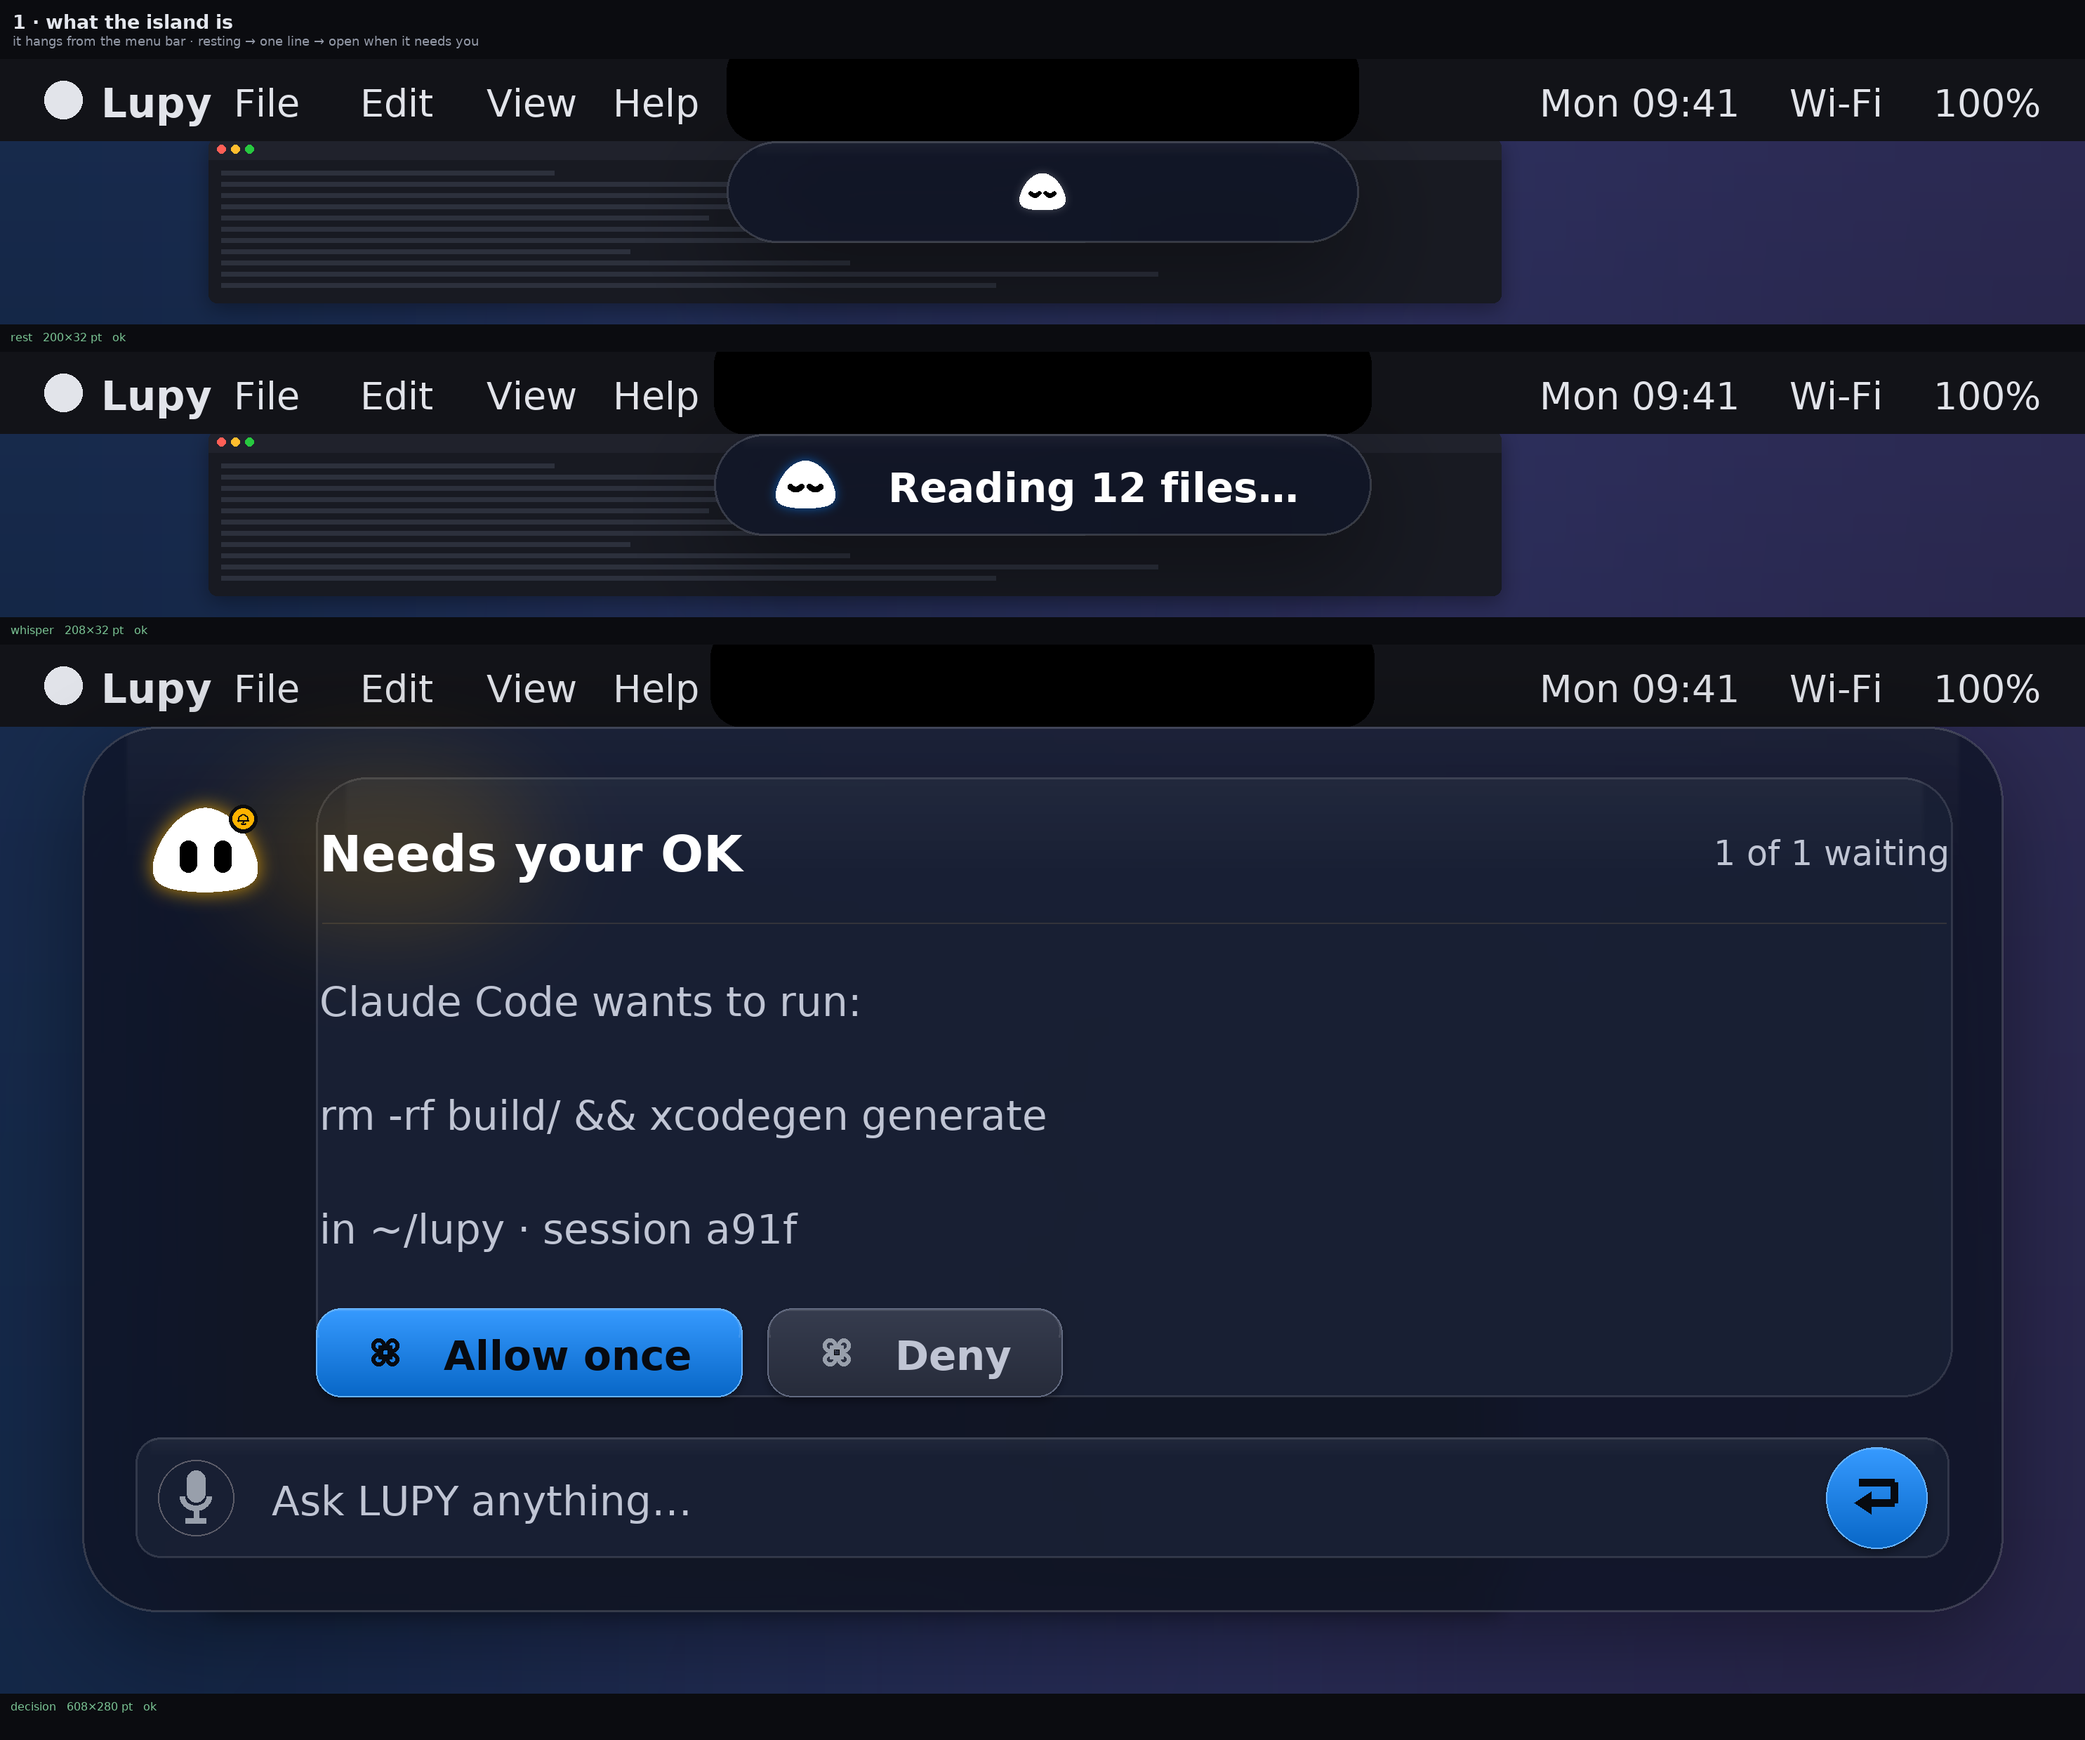
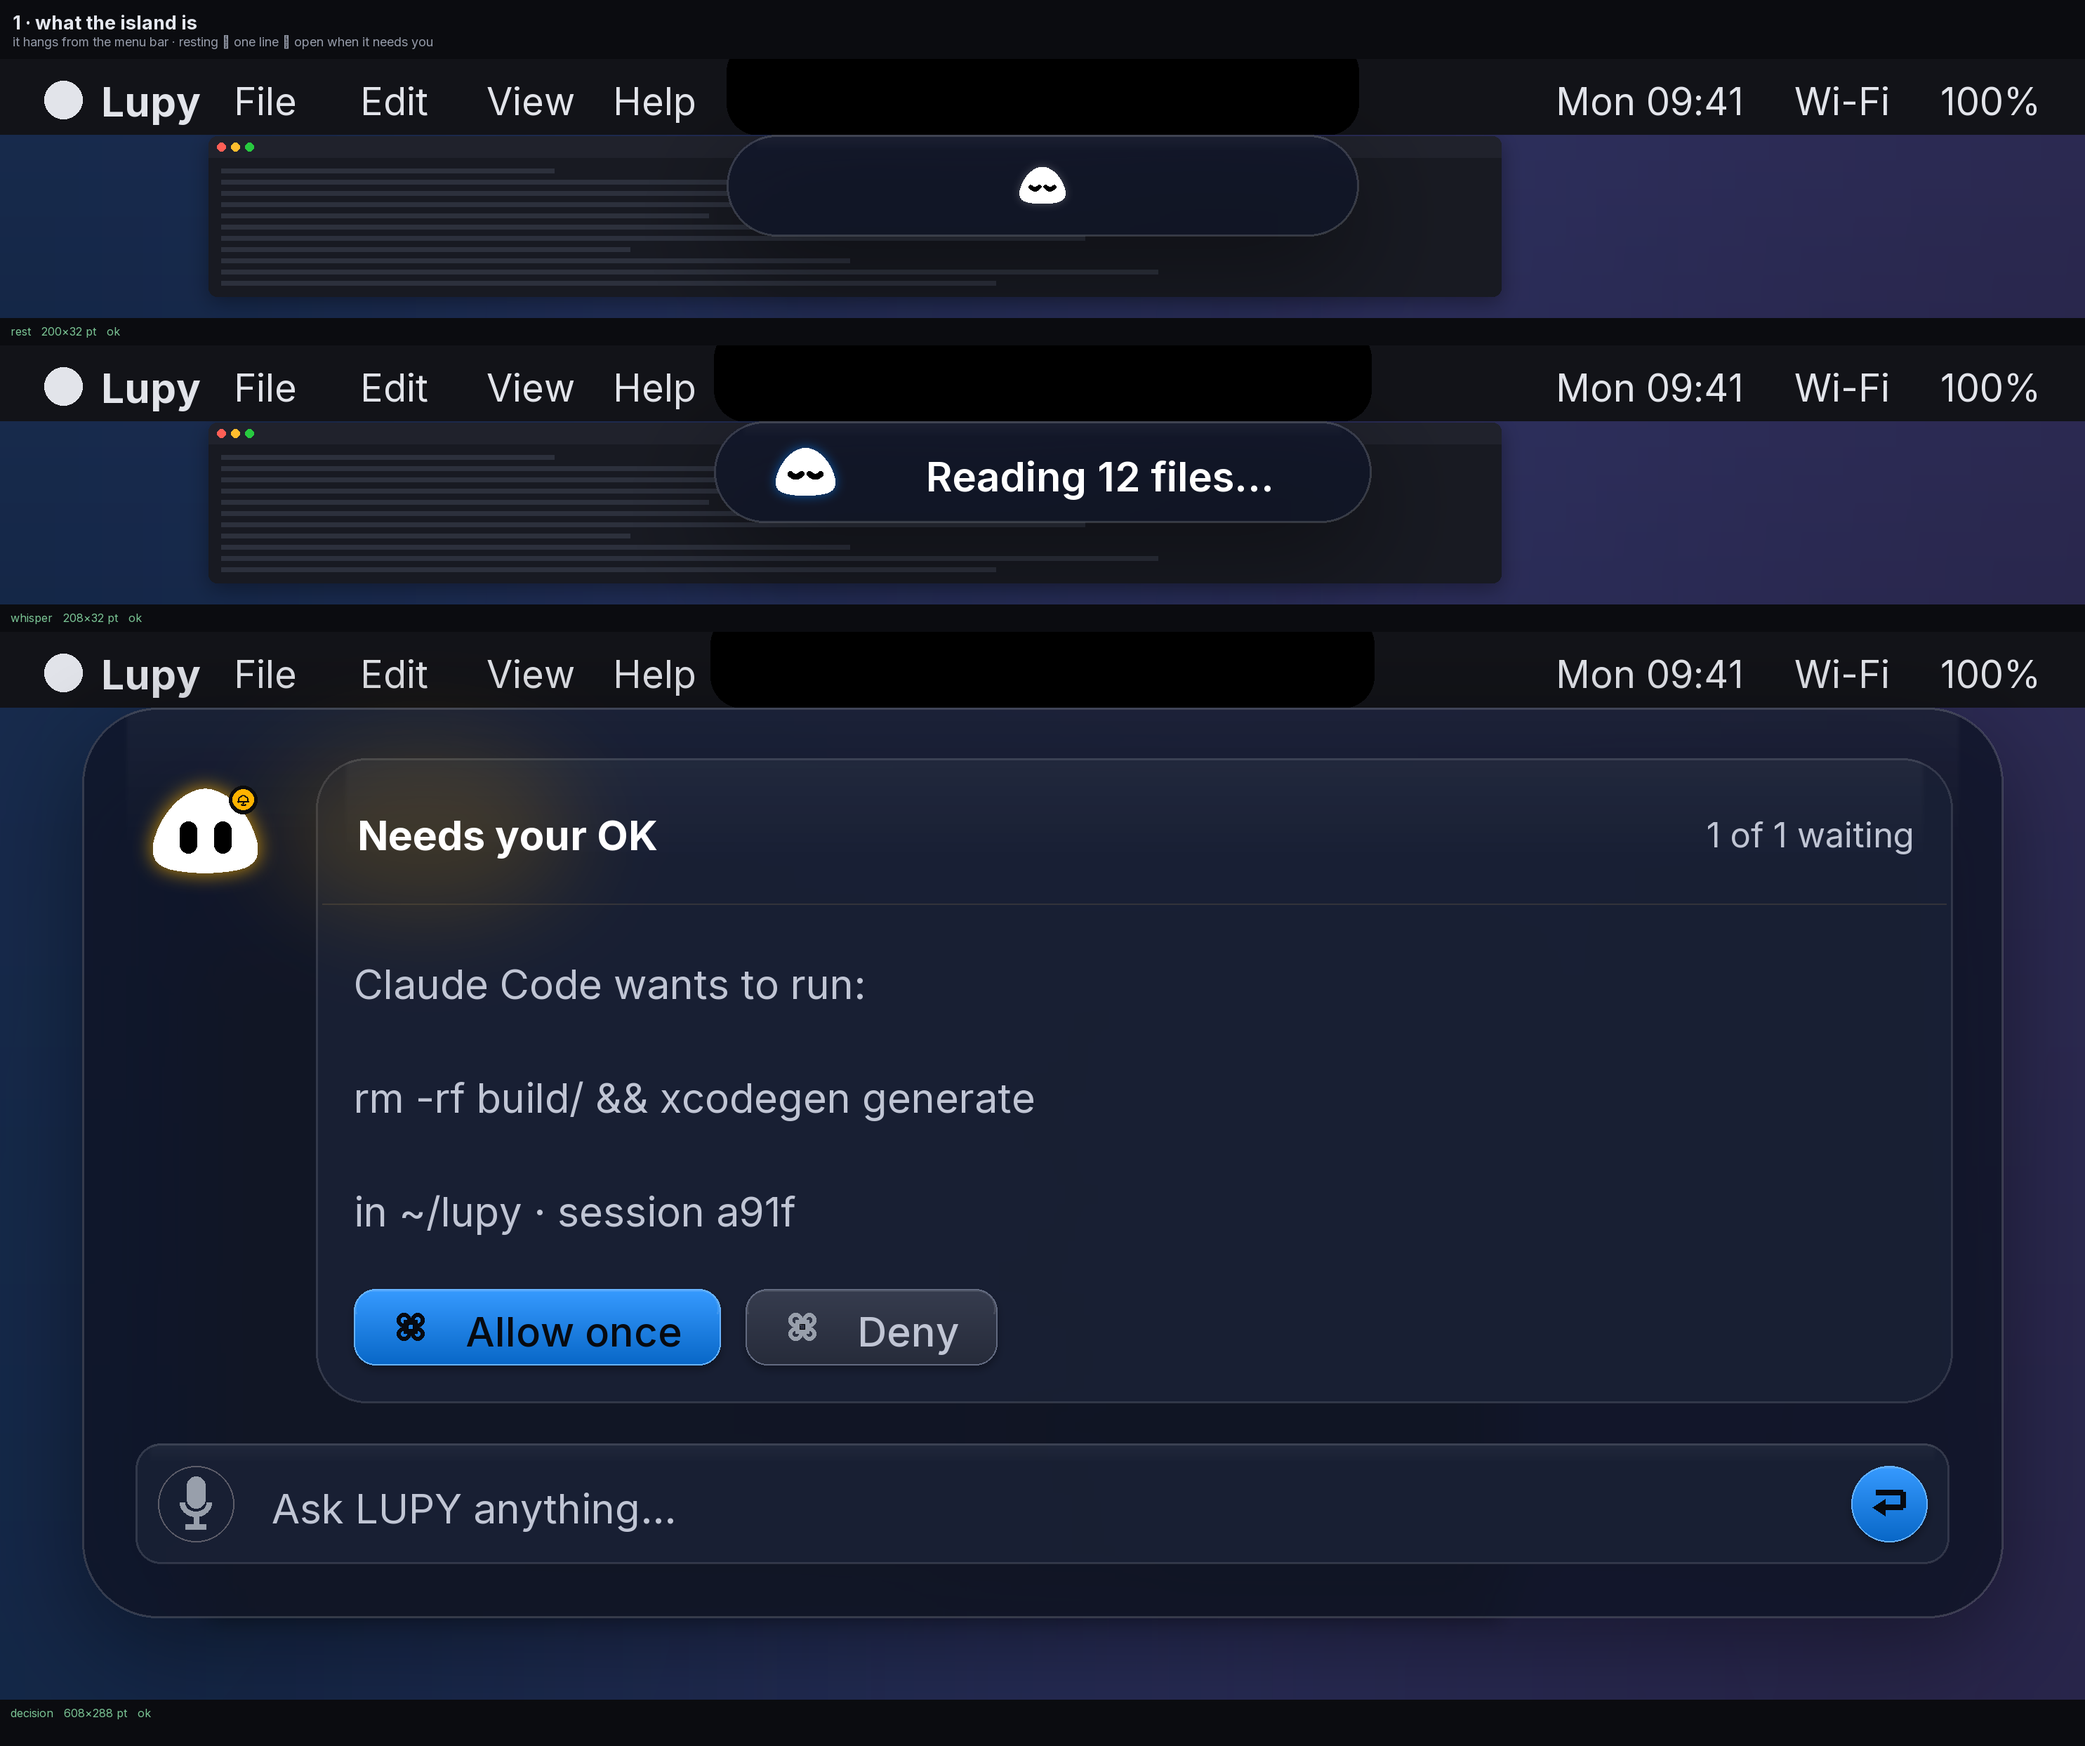
UI quality pass from the founder's crops: HIG type, real padding, native control size
What his screenshots circled, and what the Apple blueprint says about each:
- Text sat ON the card's edges: every string now lives padInner (12 pt) inside the
  card on all four sides — the kernel reserves the bottom padding as law now, so
  the last row and the chip row can never sit flush on the hairline again.
- 'Text too big': macOS HIG Headline style is 13 pt Bold — same size as body,
  hierarchy by weight. Was 16. Body 13/16, meta 11, exactly the HIG table.
- 'Buttons too big': chips 28 -> 24 pt (between .regular 22 and .large 28, the
  table-row height), padding 12, radius 7; mic and send circles 32/24-ish -> 24 pt,
  8 pt in from the field edge: one control size across the island.
- Menu bar 26 -> 24 pt, the HIG number.
- Font: Inter (free, SF-Pro metrics) Regular/Medium/SemiBold/Bold replaces DejaVu,
  which was making every string read a size too big; the shipping app keeps the
  native system font. Weights map to HIG roles: Bold headline, Medium controls.
473 design checks pass on the new numbers.

diff --git a/Mac/Sources/Lupy/UI/LupyIslandDesign.swift b/Mac/Sources/Lupy/UI/LupyIslandDesign.swift
@@ -371,7 +371,10 @@ struct LupyGlass: Equatable {
 enum LupyType {
     /// The status sentence in an open canvas. The largest text on the island, because it
     /// is the one thing that must be read at a glance.
-    static let headline: Double = 16   // a grid multiple; bold, not bigger
+    /// macOS HIG text style "Headline": 13 pt, Bold, 16 pt line height. The island is a
+    /// compact surface; Apple's own alerts and cards title at 13 Bold, and the founder's
+    /// eye caught 16 as "too big" because it was — a Title-3 number on a Headline job.
+    static let headline: Double = 13
     /// A whisper beside him in the compact band.
     static let peek: Double     = 13
     /// Card body.
@@ -609,21 +612,23 @@ enum LupyIslandLayout {
     /// centre line and he reads as the one saying it. Its right half carries the card's
     /// meta (step count, queue, cost) so the row is never dead space.
     static let headlineRow: Double = avatarExpanded
-    /// A 13 pt line in a 20 pt line box (154 % — inside the 140–160 % body range) plus a
-    /// 4 pt related-row gap: pitch 24, a full grid step. Lists read as lists.
+    /// HIG body line height is 16 pt for 13 pt text; plus an 8 pt related-row gap the
+    /// pitch is 24 — a full grid step, and how every well-set Mac list reads.
     static let rowHeight: Double   = 24
-    /// A chip is a button you press with a pointer, not a row you read. 28 pt is the
-    /// modern macOS bordered control at .regular — on the 4 pt sub-grid, between the
-    /// small (24) and large (32) sizes, and 8 pt taller than the row it answers.
-    static let chipHeight: Double  = 28
+    /// A chip is a button you press with a pointer. macOS push buttons run ~22 pt at
+    /// .regular and ~28 at .large; 24 is the table-row / sidebar-medium height and the
+    /// grid step between them — the size the founder's crops called for after 28 read
+    /// chunky next to 13 pt labels.
+    static let chipHeight: Double  = 24
 
     // MARK: the control kit, on the same scale
-    /// Button horizontal padding: space-2, the default inside cards and buttons.
-    static let chipPadH: Double     = 16
+    /// Button horizontal padding at the 12 half-step: a 24 pt control wants 12, where
+    /// the taller 28 pt cut wanted 16.
+    static let chipPadH: Double     = 12
     /// Icon to label inside a button: the standard icon-text gap.
     static let chipIconGap: Double  = 8
     /// Radii come from one family — 8, 16, 24, capsule — never from a thumb:
-    static let chipCorner: Double   = 8    // a macOS button
+    static let chipCorner: Double   = 7    // a macOS button (Big Sur corner ≈ 6–7)
     static let cardCorner: Double   = 16   // a card, in the modern 8–16 range
     static let fieldCorner: Double  = 8    // a macOS text field
 
@@ -719,7 +724,11 @@ enum LupyIslandLayout {
             ? rowHeight
             : stepped(Double(rows) * rowHeight + Double(rows - 1) * padInner)
         let chips = chipRow(need)
-        let body = headlineRow + padInner + cardHeight + (chips > 0 ? padInner + chips : 0)
+        // The trailing padInner is the card's own bottom padding: without it the last
+        // row — or the chip row — sat flush on the card's hairline, which is exactly
+        // the "no padding" the founder's crops circled.
+        let body = headlineRow + padInner + cardHeight
+                 + (chips > 0 ? padInner + chips : 0) + padInner
 
         var h = padEdge + body + composerGap + composerHeight + padEdge
         h = fit(h, minHeight, maxHeight)

diff --git a/tools/ui/design_tests.swift b/tools/ui/design_tests.swift
@@ -277,8 +277,13 @@ final class DesignTests {
         for t in LupyType.all {
             atLeast(t, LupyType.floor, "text size \(t) pt clears the floor")
         }
-        ok(LupyType.headline > LupyType.body, "the status sentence is the largest text")
-        ok(LupyType.headline >= 15, "the headline is at least 15 pt (research: 15–16 pt body)")
+        // Apple's macOS type table settles this: the "Headline" style is 13 pt Bold —
+        // the SAME size as Body, hierarchy carried by weight, not by points. Alert
+        // messages, card titles and sheet headings all set at 13 Bold. The founder's
+        // crop said our 16 pt looked "too big": it was a Title-3 number on a Headline
+        // job. So: never smaller than body, and exactly the HIG Headline size.
+        ok(LupyType.headline >= LupyType.body, "the status sentence is never smaller than body text")
+        near(LupyType.headline, 13, 0.01, "the headline is the HIG Headline style: 13 pt, Bold carries it")
         // The headline must clear AA at its own size; small text needs more contrast, so
         // this is the size that carries the strictest requirement.
         let g = LupyGlass.panel

diff --git a/tools/ui/render_island.py b/tools/ui/render_island.py
@@ -34,12 +34,18 @@ from PIL import Image, ImageDraw, ImageEnhance, ImageFilter, ImageFont  # noqa: 
 from render_rig_states import parse as parse_rig                        # noqa: E402
 from scene import draw_character                                        # noqa: E402
 
-REG = "/usr/share/fonts/truetype/dejavu/DejaVuSans.ttf"
-BOLD = "/usr/share/fonts/truetype/dejavu/DejaVuSans-Bold.ttf"
+# Inter: the free Google-metric stand-in for SF Pro (same proportions, open licence).
+# The shipping app uses the native system font; proofs use Inter so the pictures tell
+# the truth about size and weight. Weights map to HIG roles, not to moods.
+_F = os.path.join(os.path.dirname(os.path.abspath(__file__)), "fonts")
+REG = os.path.join(_F, "Inter-Regular.ttf")     # body, meta
+MED = os.path.join(_F, "Inter-Medium.ttf")       # chip labels, whisper line
+SEMI = os.path.join(_F, "Inter-SemiBold.ttf")    # emphasized body
+BOLD = os.path.join(_F, "Inter-Bold.ttf")        # HIG "Headline": 13 Bold
 MONO = "/usr/share/fonts/truetype/dejavu/DejaVuSansMono.ttf"
 
 SS = 3                      # supersample: the founder called an early render "pixelated"
-MENUBAR = 26                # pt, the macOS menu bar the island hangs from
+MENUBAR = 24   # HIG: the menu bar is 24 pt on every non-notch Mac                # pt, the macOS menu bar the island hangs from
 LAYOUT = "/tmp/island_layout.txt"
 RIG = "/tmp/states.txt"
 OUT = os.path.join(HERE, "..", "..", "docs", "concepts")
@@ -405,10 +411,11 @@ def draw_scene(doc, canvas, rig, kind, pp, context=True, below=26, min_w=None):
     # ---- headline row: the sentence left, the card's meta right
     if status and status[2] > 0 and canvas["surface"] in ("headline", "whisper"):
         size = doc["type"]["headline"] if canvas["surface"] == "headline" else doc["type"]["peek"]
-        f = ImageFont.truetype(BOLD, max(6, int(size * ss)))
-        tx, ty = P(status[0], status[1])
+        wf = BOLD if canvas["surface"] == "headline" else SEMI
+        f = ImageFont.truetype(wf, max(6, int(size * ss)))
+        tx, ty = P(status[0] + m["inner"], status[1])
         share = 0.62 if canvas["meta"] else 0.98
-        text = fit(canvas["headline"], f, status[2] * ss * share, d)
+        text = fit(canvas["headline"], f, (status[2] - 2 * m["inner"]) * ss * share, d)
         # his light, faint, behind the sentence — the state's own colour only
         glow = canvas.get("glow")
         if glow and canvas["surface"] == "headline":
@@ -422,7 +429,7 @@ def draw_scene(doc, canvas, rig, kind, pp, context=True, below=26, min_w=None):
         if canvas["meta"]:
             mf = ImageFont.truetype(REG, max(6, int(doc["type"]["provenance"] * ss)))
             mtw = d.textlength(canvas["meta"], font=mf)
-            d.text((P(status[0] + status[2], 0)[0] - mtw - ss,
+            d.text((P(status[0] + status[2] - m["inner"], 0)[0] - mtw,
                     ty + (status[3] * ss - mf.size) / 2), canvas["meta"], font=mf,
                    fill=body_text)
 
@@ -440,20 +447,20 @@ def draw_scene(doc, canvas, rig, kind, pp, context=True, below=26, min_w=None):
             else:
                 f = mono_f if line.startswith("  ") else body_f
                 fill = body_text
-            tx, ty = P(content[0], y)
-            d.text((tx + ss, ty + (m["row"] * ss - f.size) / 2),
-                   fit(line, f, content[2] * ss - 4 * ss, d), font=f, fill=fill)
+            tx, ty = P(content[0] + m["inner"], y)
+            d.text((tx, ty + (m["row"] * ss - f.size) / 2),
+                   fit(line, f, (content[2] - 2 * m["inner"]) * ss, d), font=f, fill=fill)
             y += m["row"]
             if i < len(rows) - 1:
                 y += m["inner"]
-        chip_y = content[1] + content[3] - m["chip"]
+        chip_y = content[1] + content[3] - m["inner"] - m["chip"]
     else:
         chip_y = None
 
     # ---- chips: primary = accent with ink text, the rest glass
     if canvas["chips"] and content and chip_y is not None:
-        cf = ImageFont.truetype(BOLD, max(6, int(doc["type"]["chip"] * ss)))
-        cx = content[0]
+        cf = ImageFont.truetype(MED, max(6, int(doc["type"]["chip"] * ss)))
+        cx = content[0] + m["inner"]
         accent = col["accent"]
         for i, ch in enumerate(canvas["chips"]):
             label = ch
@@ -467,7 +474,7 @@ def draw_scene(doc, canvas, rig, kind, pp, context=True, below=26, min_w=None):
             if shortcut:
                 sw = 12 + igap          # ⌘ glyph box + gap; glyph drawn inside it
             cw = tw + sw + 2 * padH
-            if cx + cw > content[0] + content[2]:
+            if cx + cw > content[0] + content[2] - m["inner"]:
                 break
             x0, y0 = P(cx, chip_y)
             rect = [x0, y0, x0 + cw * ss, y0 + m["chip"] * ss]
@@ -509,8 +516,8 @@ def draw_scene(doc, canvas, rig, kind, pp, context=True, below=26, min_w=None):
         paste_glass(img, field, m["fieldCorner"], doc["glass"]["card"], ss, shadow=False)
         d = ImageDraw.Draw(img)
         # mic in its own round glass button — the standard affordance
-        mx, my = fx + 8 * ss + fh * 0.3, fy + fh * 0.5
-        mr = fh * 0.3
+        mx, my = fx + 8 * ss + 12 * ss, fy + fh * 0.5
+        mr = 12 * ss
         d.ellipse([mx - mr, my - mr, mx + mr, my + mr],
                   outline=rgb(col["line"]), width=max(1, int(ss * 0.6)))
         icon_mic(d, mx, my, mr * 1.15, rgb(col["icon"]))
@@ -518,12 +525,12 @@ def draw_scene(doc, canvas, rig, kind, pp, context=True, below=26, min_w=None):
         d.text((mx + mr + 12 * ss, fy + (fh - pf.size) / 2), "Ask LUPY anything…",
                font=pf, fill=body_text)
         # send: primary button at the right end
-        sw = 32 * ss
-        button(img, [fx + fw - 8 * ss - sw, fy + 4 * ss,
-                     fx + fw - 8 * ss, fy + fh - 4 * ss], ss, "", pf, "primary",
+        sw = 24 * ss
+        button(img, [fx + fw - 8 * ss - sw, fy + 8 * ss,
+                     fx + fw - 8 * ss, fy + fh - 8 * ss], ss, "", pf, "primary",
                col["accent"], ink_text, body_text, radius=int(sw / 2))
         d = ImageDraw.Draw(img)
-        icon_return(d, fx + fw - 8 * ss - sw / 2, fy + fh * 0.5, fh * 0.4, ink_text)
+        icon_return(d, fx + fw - 8 * ss - sw / 2, fy + fh * 0.5, 12 * ss, ink_text)
 
     # ---- LUPY, last: his light sits over the glass he stands on
     if avatar and avatar[2] > 0:
